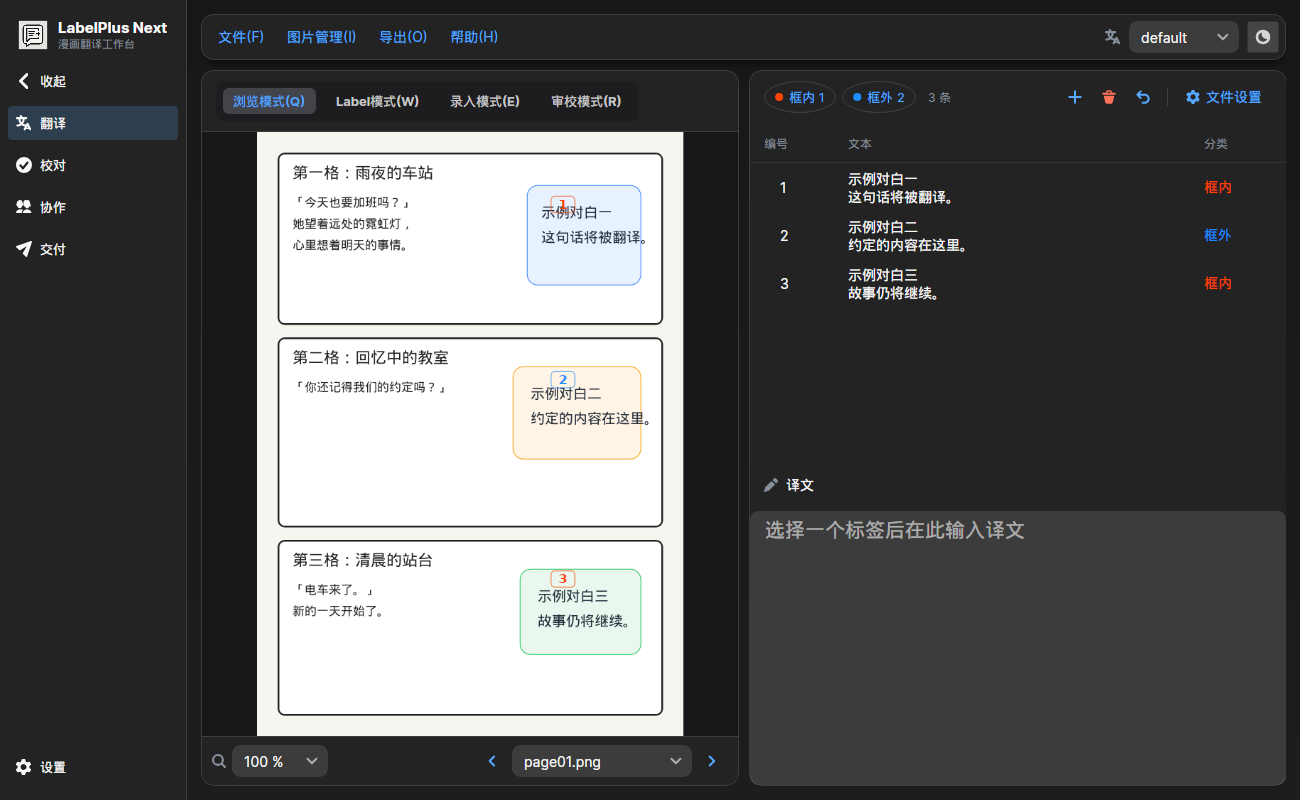
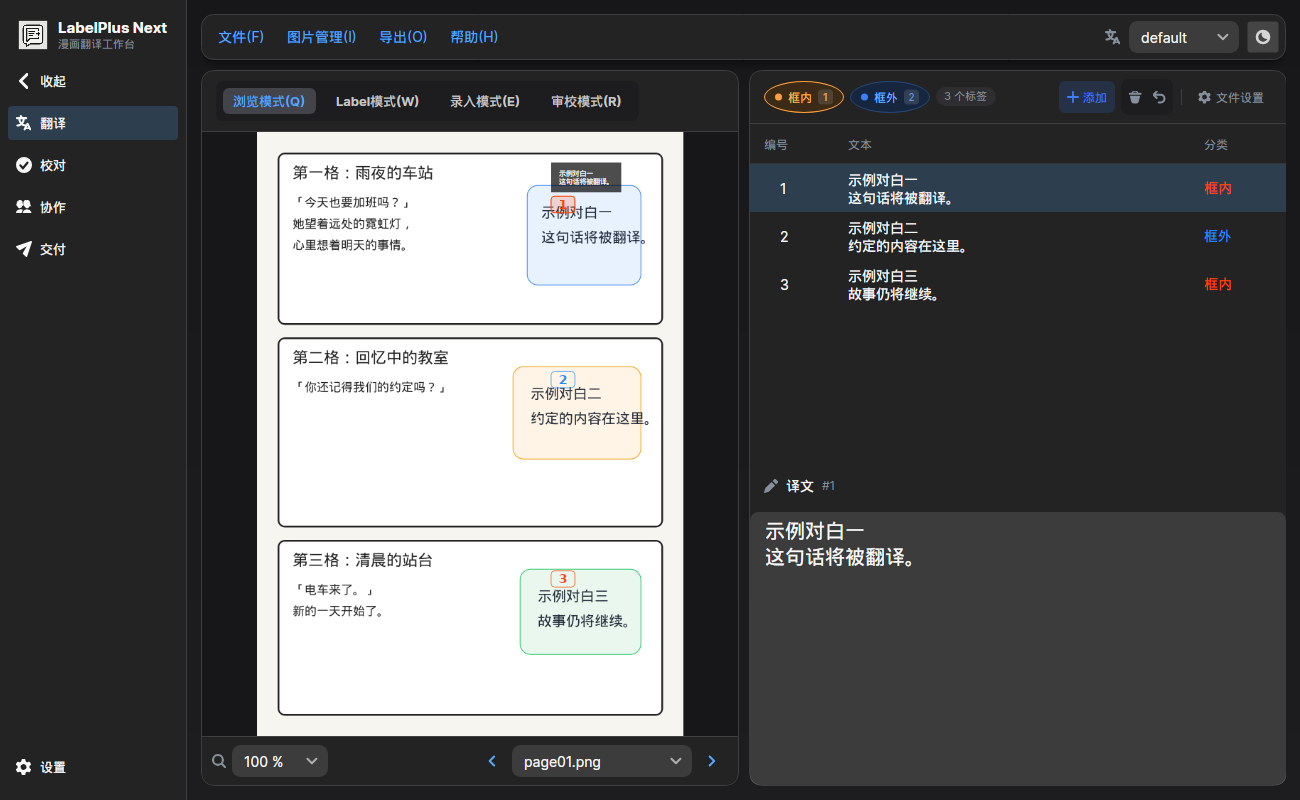
feat(ui): polish the label pane category header
- replace outline chips with soft Semi-style category chips and keycaps
- highlight the chip that matches the selected label category
- turn the label count into a quiet tag
- group delete/undo into a compact icon cluster and neutralize icon colors
- align every header control to 28px and add a header divider
- refresh the light/dark workspace screenshots

diff --git a/LabelPlus_Next/Converters/StringEqualsConverter.cs b/LabelPlus_Next/Converters/StringEqualsConverter.cs
@@ -1,0 +1,21 @@
+using Avalonia.Data;
+using Avalonia.Data.Converters;
+using System;
+using System.Globalization;
+
+namespace LabelPlus_Next.Converters;
+
+/// <summary>
+/// Returns true when the bound string equals the converter parameter. Used for
+/// lightweight selected-state styling (for example the 框内 / 框外 chips).
+/// </summary>
+public sealed class StringEqualsConverter : IValueConverter
+{
+    public static readonly StringEqualsConverter Instance = new();
+
+    public object? Convert(object? value, Type targetType, object? parameter, CultureInfo culture)
+        => string.Equals(value as string, parameter as string, StringComparison.Ordinal);
+
+    public object? ConvertBack(object? value, Type targetType, object? parameter, CultureInfo culture)
+        => BindingOperations.DoNothing;
+}
